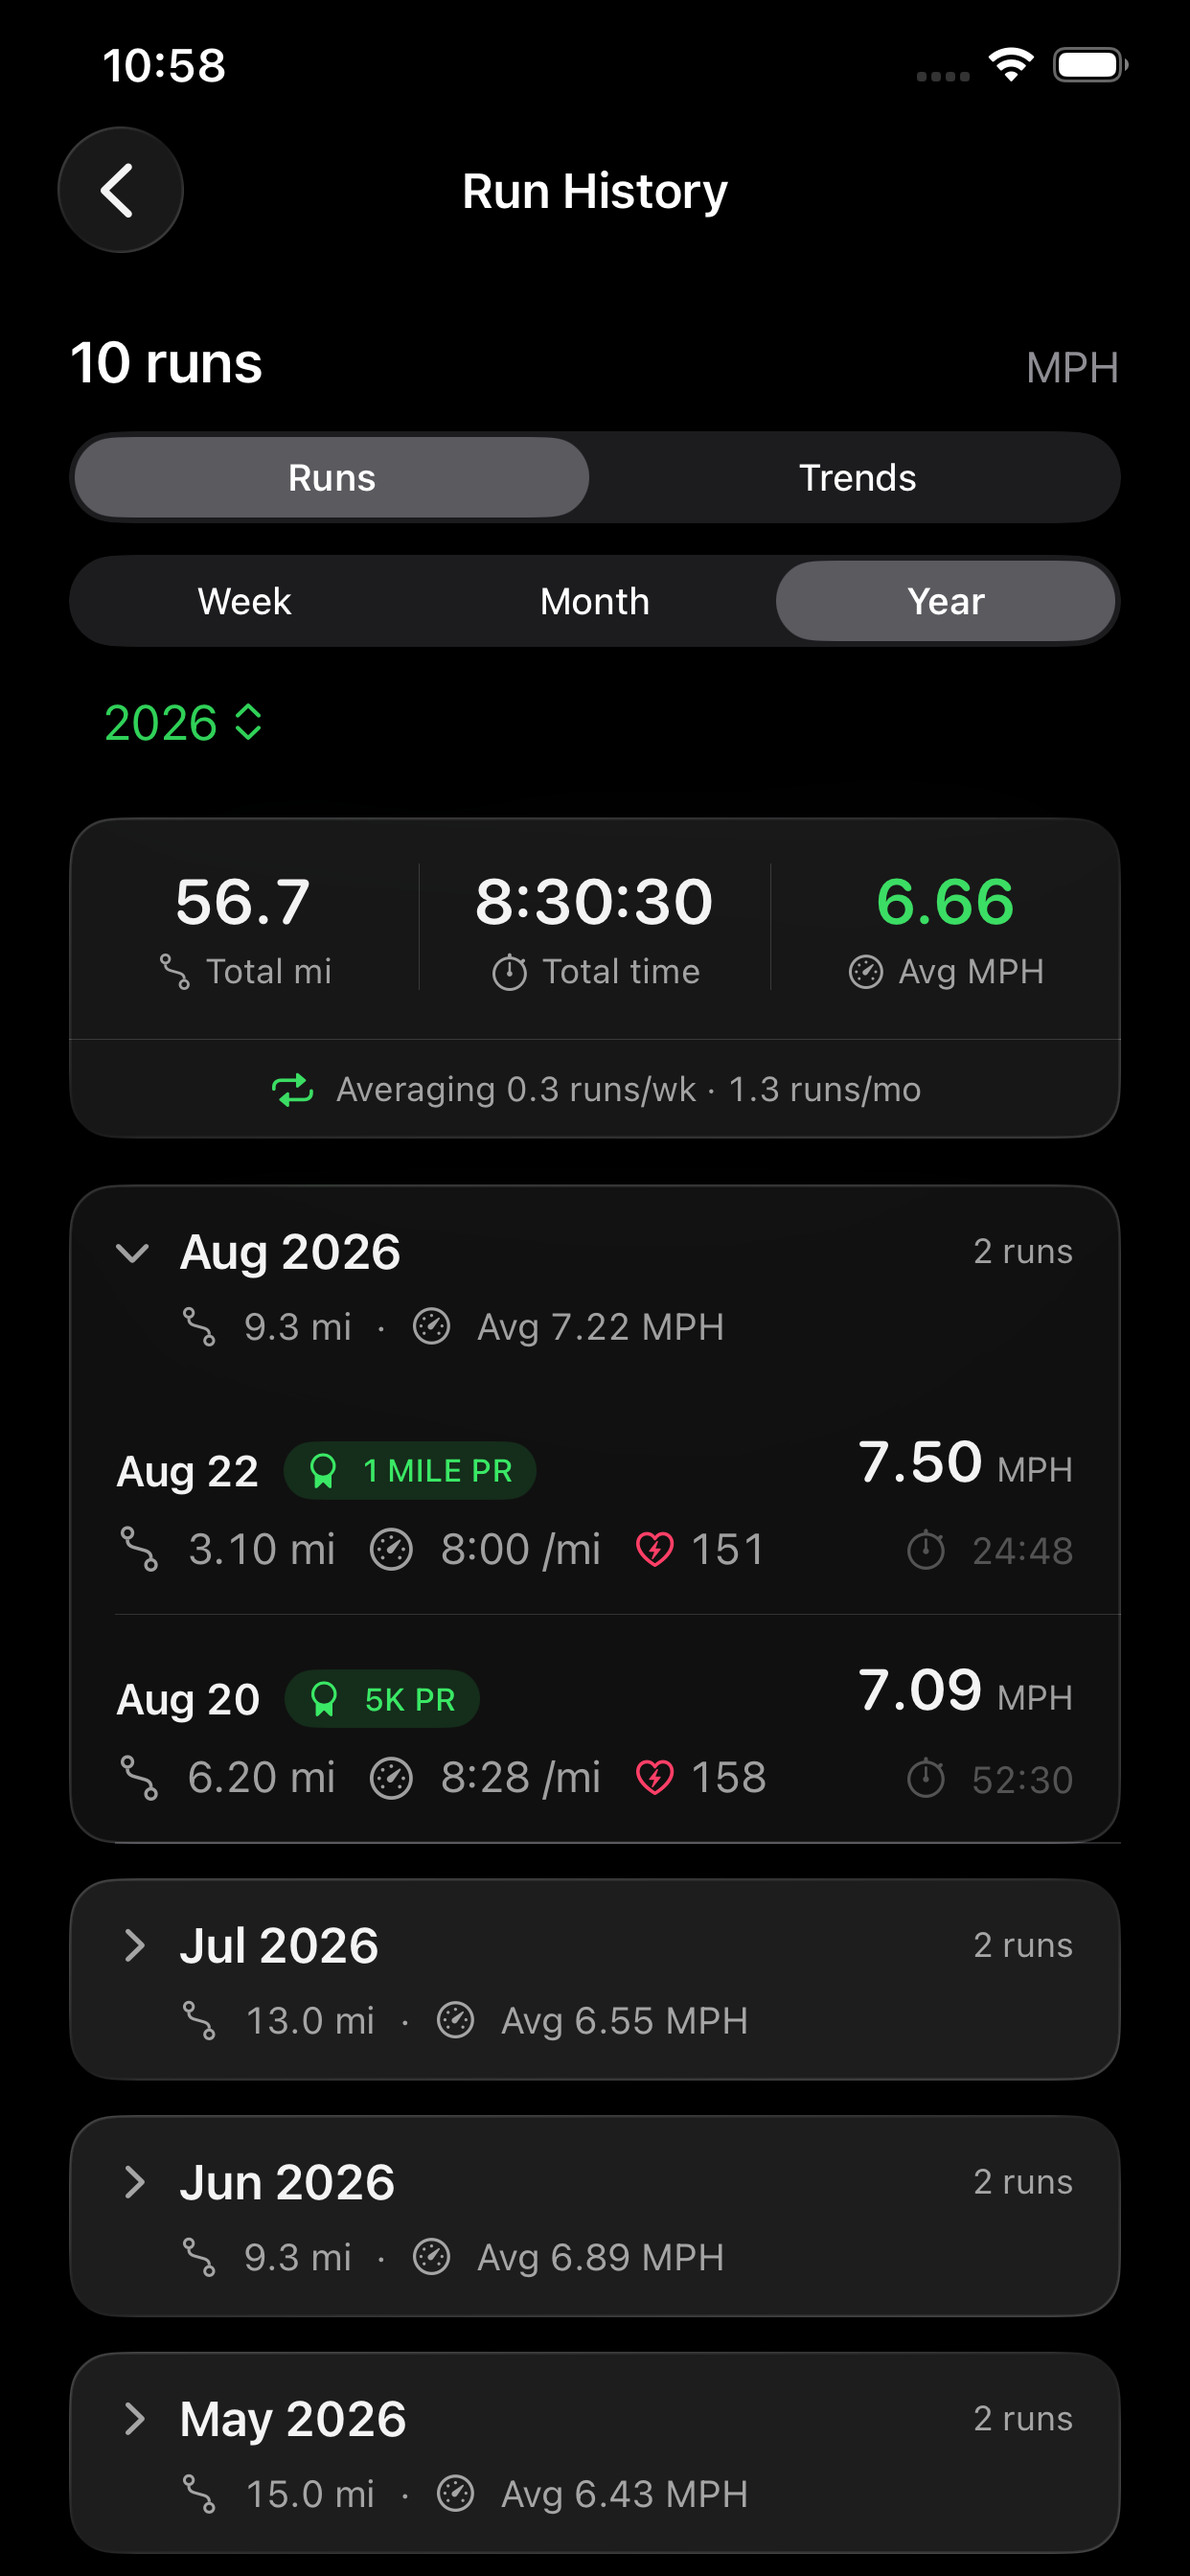
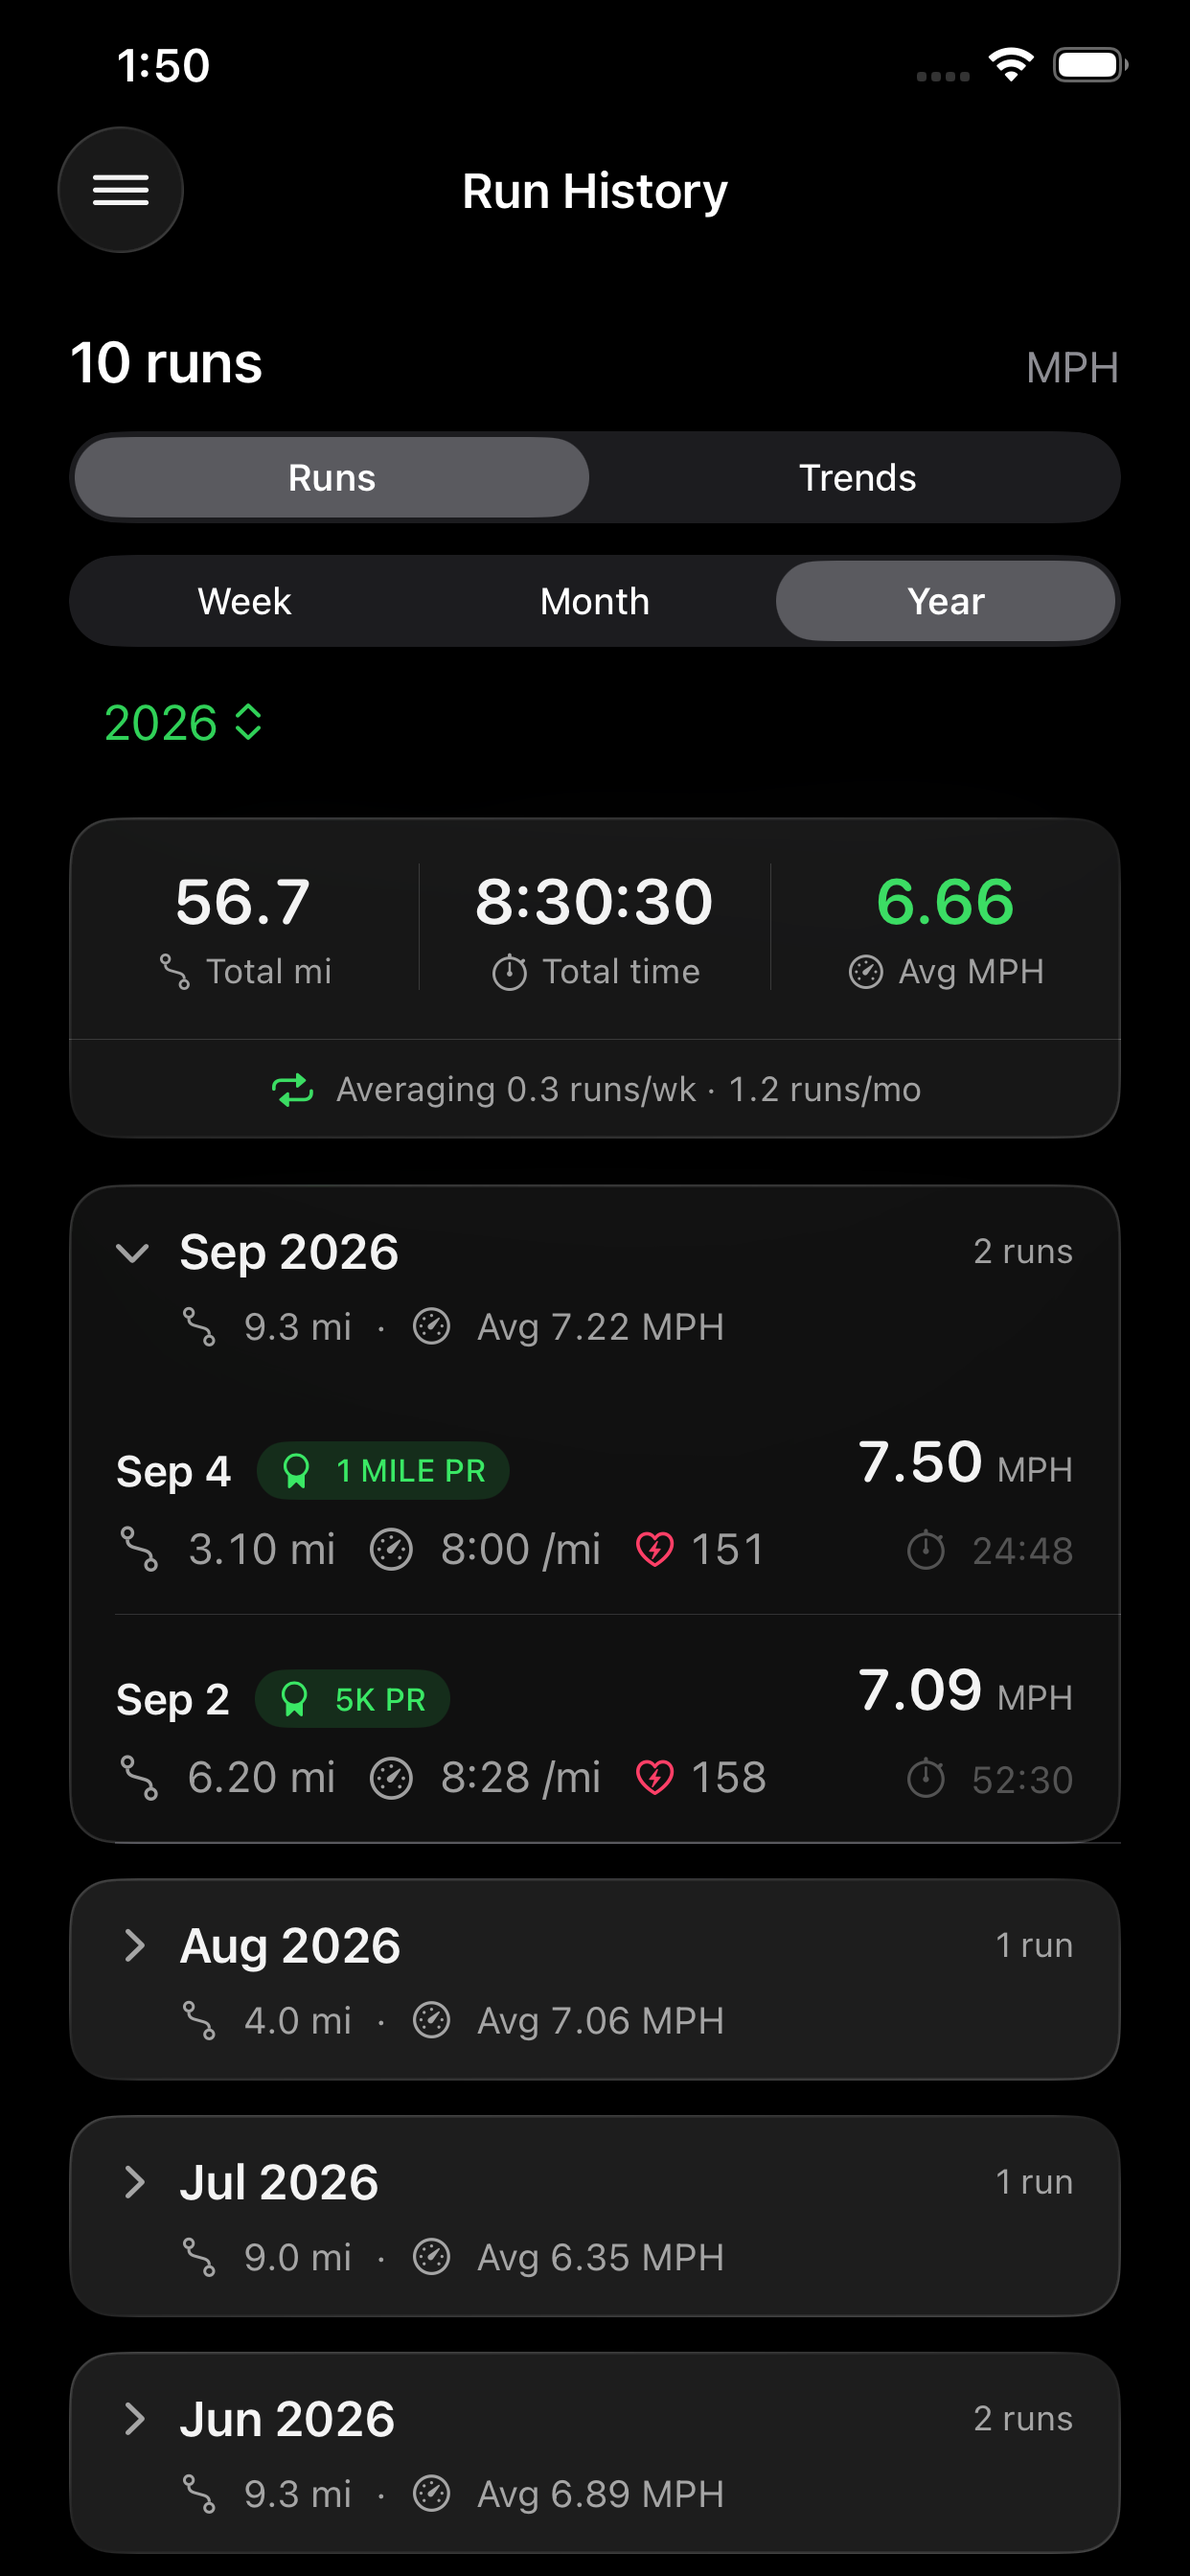
chore: update docs

diff --git a/docs/support.html b/docs/support.html
@@ -90,12 +90,29 @@
 
   <h2>How do I see my run history?</h2>
   <p>
-    Open the <strong>Run History</strong> tab. Your running workouts from Apple
-    Health appear automatically, grouped by week, with a <strong>W / M / Y</strong>
-    filter at the top to switch between the current week, month, or year. A
-    Personal Records carousel highlights your best efforts at common distances
-    (5K, 10K, half, full), and the <strong>Trends</strong> tab shows speed, pace,
-    and volume charts you can scrub with your finger to inspect past runs.
+    Open <strong>Run History</strong> from the tools menu. Your running workouts
+    from Apple Health appear automatically. Use <strong>Week</strong>,
+    <strong>Month</strong>, or <strong>Year</strong> to choose the history window;
+    the Year view can be filtered to a specific year or <strong>All Time</strong>.
+    The selected window shows its date range, totals, average speed, and running
+    cadence. Year view groups runs by calendar month, while shorter windows group
+    them by week.
+  </p>
+  <p>
+    The <strong>Trends</strong> tab compares activity over a selectable range —
+    last month, last 3 months, last 6 months, last year, or all time — and includes
+    speed, pace, and volume charts. Scrub a chart with your finger to inspect an
+    individual run.
+  </p>
+
+  <h2>How do personal records work?</h2>
+  <p>
+    Expand <strong>Highlights &amp; Personal Bests</strong> in the Trends tab to
+    see your all-time best efforts at common distances. Tap a record card to see
+    the current mark, the previous best it beat, the improvement, how long the
+    previous mark stood, and the full record progression over time. Longer runs
+    can contribute an estimated mark at a shorter distance, labelled
+    <strong>est.</strong> in the progression.
   </p>
 
   <h2>How are speed trends grouped by distance?</h2>
@@ -109,12 +126,20 @@
     <strong>ALL</strong> and your volume statistics.
   </p>
 
+  <h2>How do I choose the screen that opens at launch?</h2>
+  <p>
+    Open <strong>Settings</strong> from the tools menu and choose a screen under
+    <strong>Default Screen</strong>. You can start in the Converter, a race or
+    split calculator, Run History, Favorites, or the Reference Table. The choice
+    takes effect the next time you open RunPace.
+  </p>
+
   <h2>What does the app access from Apple Health?</h2>
   <p>
-    Read-only access to your running workouts and the distance recorded with
-    them — nothing else. The app does not access heart rate, sleep, weight,
-    location, or any other health data, and it never writes anything back to
-    Apple Health. You can revoke access any time in
+    Read-only access to your running workouts, their recorded distance, average
+    heart rate, and elevation metadata when available — nothing else. The app does
+    not access sleep, weight, location, or any other health data, and it never
+    writes anything back to Apple Health. You can revoke access any time in
     <strong>Settings → Privacy &amp; Security → Health → RunPace</strong>. See the
     <a href="privacy.html">privacy policy</a> for full detail.
   </p>

diff --git a/docs/privacy.html b/docs/privacy.html
@@ -24,12 +24,12 @@
 </head>
 <body>
   <h1>Privacy Policy</h1>
-  <p class="updated">Last updated: May 20, 2026</p>
+  <p class="updated">Last updated: September 4, 2026</p>
 
   <p>
     <strong>RunPace</strong> ("the app") is a utility for converting running pace to
-    speed, calculating race finish times, and planning split strategies. This policy
-    explains what data we collect — which is none.
+    speed, calculating race finish times, planning split strategies, and analyzing
+    your running history. This policy explains what data we collect — which is none.
   </p>
 
   <h2>No Data Collection</h2>
@@ -46,16 +46,18 @@
   </p>
   <ul>
     <li>Your preferred unit (MPH or KM/H) and conversion direction</li>
+    <li>Your selected default screen</li>
     <li>Pinned favorite conversions</li>
-    <li>Cached running workout details imported from Apple Health, including date, duration, distance, and source name</li>
+    <li>Cached running workout details imported from Apple Health, including date, duration, distance, source name, and available heart-rate and elevation metrics</li>
   </ul>
 
   <h2>Apple Health Access</h2>
   <p>
     If you choose to enable Run History, the app requests <strong>read-only</strong>
-    access to Apple Health. It reads only your running workouts and the distance
-    recorded with them — no heart rate, sleep, weight, location, or any other health
-    data is accessed. The app <strong>never writes</strong> anything to Apple Health.
+    access to Apple Health. It reads only your running workouts, their recorded
+    distance, average heart rate, and elevation metadata when available — no sleep,
+    weight, location, or any other health data is accessed. The app <strong>never writes</strong>
+    anything to Apple Health.
   </p>
   <p>
     You can grant, review, or revoke this permission at any time in

diff --git a/pace-to-mph/RunHistoryView.swift b/pace-to-mph/RunHistoryView.swift
@@ -139,17 +139,39 @@ struct RunHistoryView: View {
         #endif
     }
 
+    // Lets screenshot tests show record progression without scrolling through
+    // the larger Trends page first. This path is only active with demo data.
+    private var demoShowsRecordDetail: Bool {
+        #if DEBUG
+        return ProcessInfo.processInfo.arguments.contains("-runHistoryDemoRecordDetail")
+        #else
+        return false
+        #endif
+    }
+
     var body: some View {
         Group {
             if usesDemoData {
-                RunHistoryContent(
-                    runs: demoRuns,
-                    unit: unit,
-                    initialMode: demoStartsOnTrends ? .trends : .runs,
-                    initialPeriod: .year,
-                    lastSyncedAt: debugLastSyncedAt,
-                    onSync: { debugLastSyncedAt = Date() }
-                )
+                if demoShowsRecordDetail {
+                    PersonalRecordDetailView(
+                        target: .fiveKilometers,
+                        milestones: RunHistoryStats.recordProgression(
+                            for: .fiveKilometers,
+                            from: demoRuns,
+                            unit: unit
+                        ),
+                        unit: unit
+                    )
+                } else {
+                    RunHistoryContent(
+                        runs: demoRuns,
+                        unit: unit,
+                        initialMode: demoStartsOnTrends ? .trends : .runs,
+                        initialPeriod: .year,
+                        lastSyncedAt: debugLastSyncedAt,
+                        onSync: { debugLastSyncedAt = Date() }
+                    )
+                }
             } else {
                 switch service.authorizationState {
                 case .unavailable:

diff --git a/pace-to-mphUITests/pace_to_mphUITests.swift b/pace-to-mphUITests/pace_to_mphUITests.swift
@@ -153,6 +153,22 @@ final class pace_to_mphUITests: XCTestCase {
         history.swipeUp()
         sleep(3)
         addScreenshot(named: "readme-speed-trends")
+        history.terminate()
+
+        let record = XCUIApplication()
+        record.launchArguments = [
+            "-uiTesting",
+            "-initialScreen", DefaultScreenLaunchValue.runHistory,
+            "-runHistoryDemoRecordsData",
+            "-runHistoryDemoRecordDetail",
+        ]
+        record.launch()
+        XCTAssertTrue(record.navigationBars["5K Record"].waitForExistence(timeout: 5))
+        XCTAssertTrue(element("run-history-record-current", in: record).waitForExistence(timeout: 3))
+        XCTAssertTrue(record.staticTexts["Previous best"].waitForExistence(timeout: 3))
+        sleep(1)
+        addScreenshot(named: "readme-record-progression")
+        record.terminate()
     }
 
     @MainActor

diff --git a/README.md b/README.md
@@ -22,10 +22,11 @@ A native iOS app built with SwiftUI for runners — convert pace to MPH/KPH, bro
 
 <table align="center">
   <tr>
-    <td align="center" width="25%"><img src=".github/assets/converter-light.png" alt="Pace to speed converter" /><br /><sub><b>Pace ⇄ speed</b></sub></td>
-    <td align="center" width="25%"><img src=".github/assets/run-history.png" alt="Run history with heart rate and PRs" /><br /><sub><b>Run history · HR · PRs</b></sub></td>
-    <td align="center" width="25%"><img src=".github/assets/speed-trends.png" alt="Overall and per-distance speed trends" /><br /><sub><b>Speed trends</b></sub></td>
-    <td align="center" width="25%"><img src=".github/assets/converter-dark.png" alt="Converter in dark mode" /><br /><sub><b>Dark mode</b></sub></td>
+    <td align="center" width="20%"><img src=".github/assets/converter-light.png" alt="Pace to speed converter" /><br /><sub><b>Pace ⇄ speed</b></sub></td>
+    <td align="center" width="20%"><img src=".github/assets/run-history.png" alt="Run history with heart rate and personal records" /><br /><sub><b>Run history · HR · PRs</b></sub></td>
+    <td align="center" width="20%"><img src=".github/assets/speed-trends.png" alt="Overall speed trends with date ranges" /><br /><sub><b>Speed trends</b></sub></td>
+    <td align="center" width="20%"><img src=".github/assets/record-progression.png" alt="5K personal record progression details" /><br /><sub><b>PR progression</b></sub></td>
+    <td align="center" width="20%"><img src=".github/assets/converter-dark.png" alt="Converter in dark mode" /><br /><sub><b>Dark mode</b></sub></td>
   </tr>
 </table>
 
@@ -34,10 +35,11 @@ A native iOS app built with SwiftUI for runners — convert pace to MPH/KPH, bro
 - **Two-way conversion** — pace (mm:ss per mile/km) ⇄ speed (MPH/KPH), updating in real time as you type
 - **MPH & KM/H** — toggle units; the app remembers your last-used direction and unit
 - **Reference table** — common pace/speed benchmarks for both units
-- **Run history** — reads and locally caches your Apple Health running workouts
+- **Run history** — reads and locally caches your Apple Health running workouts; filter by week, month, year, or all time
 - **Speed trends** — see your overall average-speed direction, then compare like-for-like efforts with 5K, 10K, and other named-distance breakdowns (within ±5% of each distance)
-- **Heart rate** — average heart rate per run from Apple Health
-- **Personal records** — tracks your best efforts across common distances
+- **Heart rate** — average heart rate per run from Apple Health when available
+- **Personal records** — track your best efforts across common distances and open each record to see what it beat and how it progressed over time
+- **Customizable launch screen** — choose which RunPace tool opens when you launch the app
 - **Polished by default** — full light/dark mode and subtle haptic feedback
 
 ## Requirements
